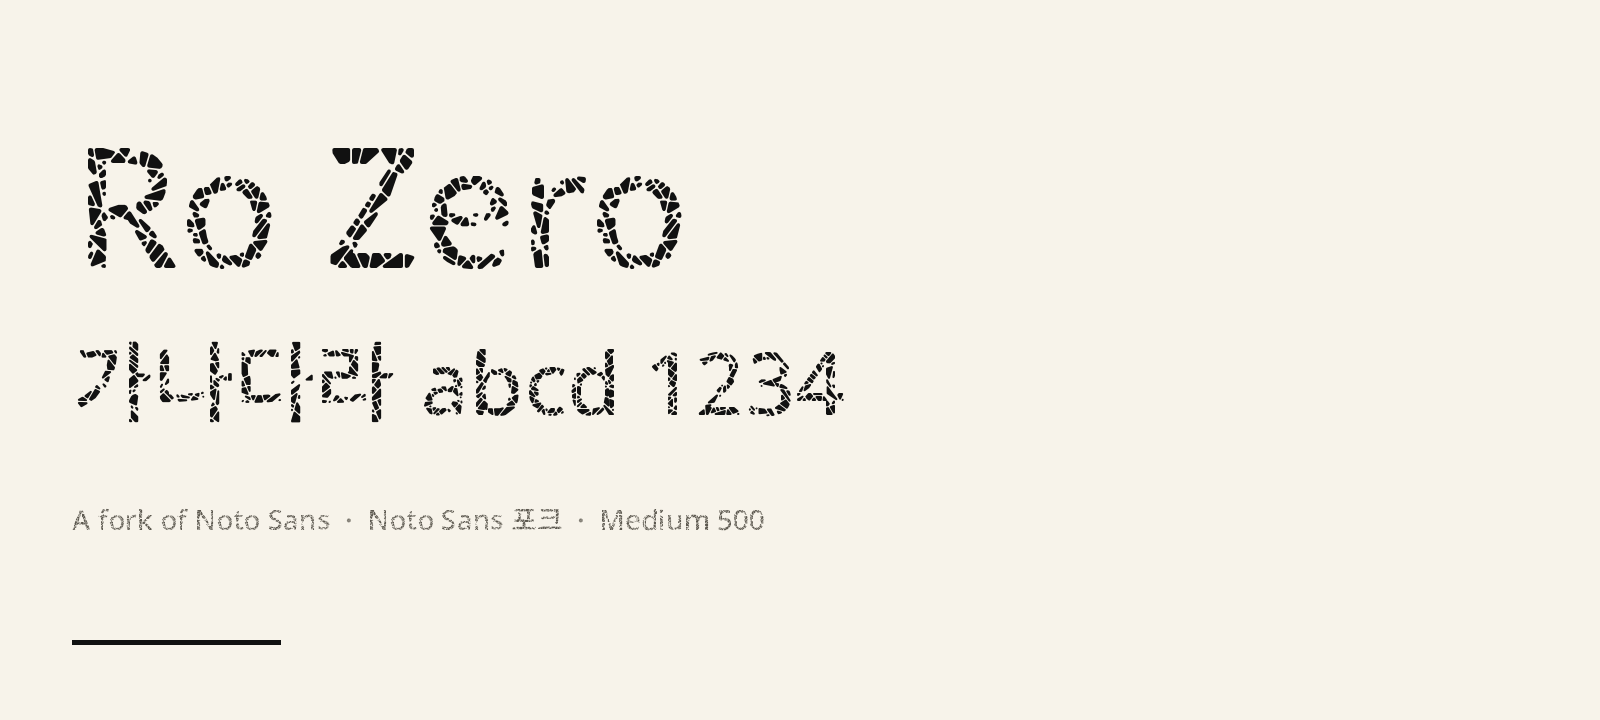
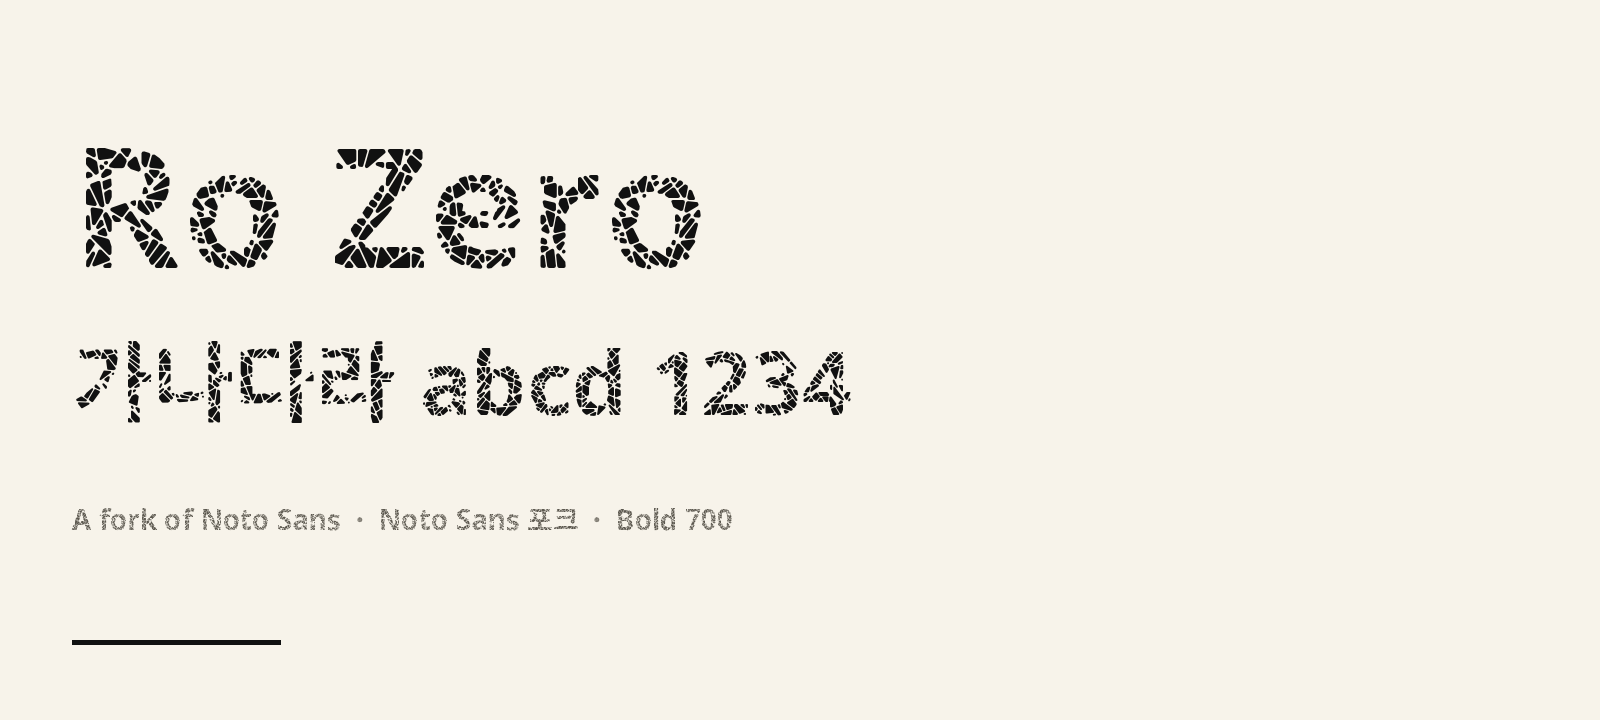
Subset to Korean, English, and punctuation
Keep Hangul, Latin, and symbols. Drop CJK ideographs and other scripts. Specimen uses Bold 700.

Changed region(s): [[0.0312, 0.1833, 0.4375, 0.3972], [0.0625, 0.4889, 0.5312, 0.5806], [0.0312, 0.7028, 0.5, 0.7333]]

diff --git a/documentation/DESCRIPTION.en_us.html b/documentation/DESCRIPTION.en_us.html
@@ -1,12 +1,13 @@
 <p>
   <strong>Ro Zero is a fork of Noto Sans.</strong>
   It is a Modified Version of Noto Sans under the SIL Open Font License 1.1,
-  not an original typeface. Outlines start from Noto Sans (including Noto Sans
-  KR, JP, SC, Arabic, Hebrew, Thai, Devanagari, and Symbols). Each glyph is
-  then shattered into about 100 stone-like shards with 30% crack gaps and
+  not an original typeface. Outlines start from Noto Sans. Each glyph is
+  shattered into about 100 stone-like shards with 30% crack gaps and
   straight fractures.
 </p>
 <p>
+  Coverage is Korean Hangul, English/Latin, and punctuation/symbols.
   The family name is Ro Zero. It does not use the name Noto. Noto is a
   trademark of Google LLC. Styles run from Thin 100 through Black 900.
+  The specimen shows Bold 700.
 </p>

diff --git a/index.html b/index.html
@@ -71,8 +71,8 @@
         <h1>Ro Zero</h1>
         <p class="lede">
           <b>Noto Sans 포크.</b>
-          Thin 100부터 Black 900까지 각각 TTF로 만든 뒤
-          <b>ro-zero-100-900.zip</b>으로 묶습니다.
+          한글, 영문, 특수문자. Thin 100부터 Black 900까지 TTF로 만든 뒤
+          <b>ro-zero-100-900.zip</b>으로 묶습니다. 시편은 Bold 700입니다.
         </p>
         <div class="stats" id="stats">불러오는 중…</div>
         <p class="font-state" id="font-state">폰트 상태 확인 중…</p>

diff --git a/sources/subset_kr_en.py b/sources/subset_kr_en.py
@@ -1,0 +1,46 @@
+"""Subset Ro Zero TTFs to Korean + English + punctuation."""
+
+from __future__ import annotations
+
+import sys
+from pathlib import Path
+
+from fontTools.subset import Options, Subsetter
+from fontTools.ttLib import TTFont
+
+ROOT = Path(__file__).resolve().parent.parent
+sys.path.insert(0, str(ROOT))
+
+from glyph_coverage import keep_code
+
+TTF_DIR = ROOT / "fonts" / "ttf"
+
+
+def subset_font(path: Path) -> Path:
+    font = TTFont(path, recalcBBoxes=False, recalcTimestamp=False)
+    cmap = font.getBestCmap() or {}
+    unicodes = {code for code in cmap if keep_code(code)}
+    options = Options()
+    options.layout_features = []
+    options.hinting = False
+    options.notdef_outline = True
+    options.recommended_glyphs = True
+    options.drop_tables += ["DSIG"]
+    subsetter = Subsetter(options=options)
+    subsetter.populate(unicodes=unicodes)
+    subsetter.subset(font)
+    font.save(path)
+    print(f"{path.name}: {len(unicodes)} chars -> {path.stat().st_size} bytes")
+    return path
+
+
+def main() -> None:
+    paths = sorted(TTF_DIR.glob("RoZero-*.ttf"))
+    if not paths:
+        raise SystemExit(f"No RoZero TTFs in {TTF_DIR}")
+    for path in paths:
+        subset_font(path)
+
+
+if __name__ == "__main__":
+    main()

diff --git a/glyph_coverage.py b/glyph_coverage.py
@@ -1,0 +1,32 @@
+"""Korean + English + punctuation coverage for shipped Ro Zero fonts."""
+
+from __future__ import annotations
+
+# Hangul, Latin (English / GF Latin Core-ish), and punctuation/symbols.
+# Not CJK ideographs, kana, Arabic, Hebrew, Thai, or Indic.
+_RANGES: tuple[tuple[int, int], ...] = (
+    (0x0020, 0x007E),  # ASCII
+    (0x00A0, 0x017F),  # Latin-1 + Latin Extended-A
+    (0x02B0, 0x02FF),  # modifier letters
+    (0x0300, 0x036F),  # combining marks
+    (0x1100, 0x11FF),  # Hangul Jamo
+    (0x2000, 0x206F),  # general punctuation
+    (0x2070, 0x209F),  # super/subscripts
+    (0x20A0, 0x20CF),  # currency
+    (0x2100, 0x23FF),  # letterlike, arrows, math, technical
+    (0x2460, 0x27BF),  # enclosed, box, geometric, dingbats
+    (0x2B00, 0x2BFF),  # misc symbols and arrows
+    (0x3000, 0x303F),  # CJK punctuation (Korean)
+    (0x3130, 0x318F),  # Hangul compatibility jamo
+    (0xA960, 0xA97F),  # Hangul Jamo Extended-A
+    (0xAC00, 0xD7A3),  # Hangul syllables
+    (0xD7B0, 0xD7FF),  # Hangul Jamo Extended-B
+    (0xFF00, 0xFFEF),  # halfwidth / fullwidth forms
+)
+
+
+def keep_code(code: int) -> bool:
+    for start, end in _RANGES:
+        if start <= code <= end:
+            return True
+    return False

diff --git a/documentation/make_specimen.py b/documentation/make_specimen.py
@@ -1,4 +1,4 @@
-"""Render documentation/ro-zero-specimen.png from Ro Zero Medium."""
+"""Render documentation/ro-zero-specimen.png from Ro Zero Bold."""
 
 from __future__ import annotations
 
@@ -7,7 +7,7 @@ from pathlib import Path
 from PIL import Image, ImageDraw, ImageFont
 
 ROOT = Path(__file__).resolve().parent.parent
-FONT = ROOT / "fonts" / "ttf" / "RoZero-Medium.ttf"
+FONT = ROOT / "fonts" / "ttf" / "RoZero-Bold.ttf"
 OUT = Path(__file__).resolve().parent / "ro-zero-specimen.png"
 
 
@@ -22,7 +22,7 @@ def main() -> None:
     draw.text((72, 320), "가나다라 abcd 1234", font=font_line, fill="#111111")
     draw.text(
         (72, 500),
-        "A fork of Noto Sans  ·  Noto Sans 포크  ·  Medium 500",
+        "A fork of Noto Sans  ·  Noto Sans 포크  ·  Bold 700",
         font=font_caption,
         fill="#5c584f",
     )

diff --git a/test_svg_pattern.py b/test_svg_pattern.py
@@ -104,6 +104,17 @@ class ForkDocsTests(unittest.TestCase):
         self.assertIn("Noto Sans", readme)
         self.assertIn("fork of Noto Sans", desc)
 
+    def test_coverage_keeps_korean_english_punct(self) -> None:
+        from glyph_coverage import keep_code
+
+        self.assertTrue(keep_code(ord("A")))
+        self.assertTrue(keep_code(ord("가")))
+        self.assertTrue(keep_code(ord("!")))
+        self.assertTrue(keep_code(0x20A9))  # won
+        self.assertFalse(keep_code(ord("あ")))
+        self.assertFalse(keep_code(ord("一")))
+        self.assertFalse(keep_code(ord("א")))
+
     def test_noto_sources_live_under_fonts_noto(self) -> None:
         from type_shatter import FONTS
 

diff --git a/build_font.py b/build_font.py
@@ -19,6 +19,7 @@ from fontTools.ttLib import TTFont, newTable
 from shapely.geometry import Polygon
 from shapely.geometry.polygon import LinearRing
 
+from glyph_coverage import keep_code
 from type_shatter import (
     FONT_KINDS,
     UPM,
@@ -85,7 +86,7 @@ def collect_codepoints() -> list[int]:
             continue
         cmap = font.getBestCmap() or {}
         codes.update(cmap.keys())
-    return sorted(code for code in codes if usable_code(code))
+    return sorted(code for code in codes if usable_code(code) and keep_code(code))
 
 
 def _signed_area(points: list[tuple[int, int]]) -> float:

diff --git a/fonts/ttf/README.md b/fonts/ttf/README.md
@@ -2,6 +2,8 @@
 
 Static fonts for the **Ro Zero** family, a fork of Noto Sans.
 
+Coverage: Korean Hangul, English/Latin, and punctuation/symbols.
+
 | File | Weight |
 |---|---|
 | RoZero-Thin.ttf | 100 |
@@ -14,4 +16,4 @@ Static fonts for the **Ro Zero** family, a fork of Noto Sans.
 | RoZero-ExtraBold.ttf | 800 |
 | RoZero-Black.ttf | 900 |
 
-Tracked with Git LFS. Rebuild with `../../sources/build.sh`.
+Specimen uses Bold 700. Tracked with Git LFS. Rebuild with `../../sources/build.sh`.
